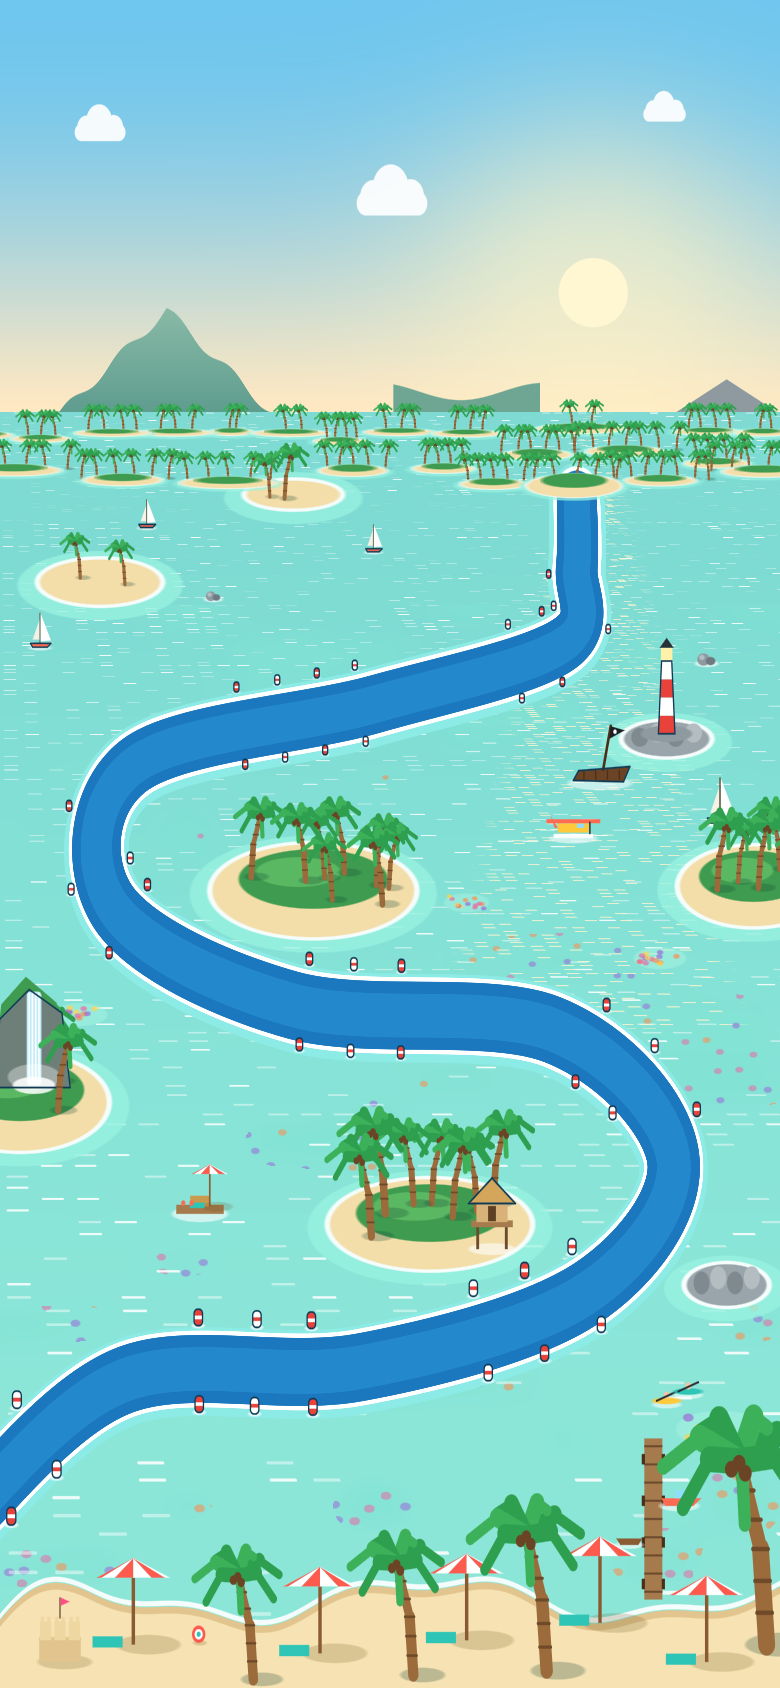
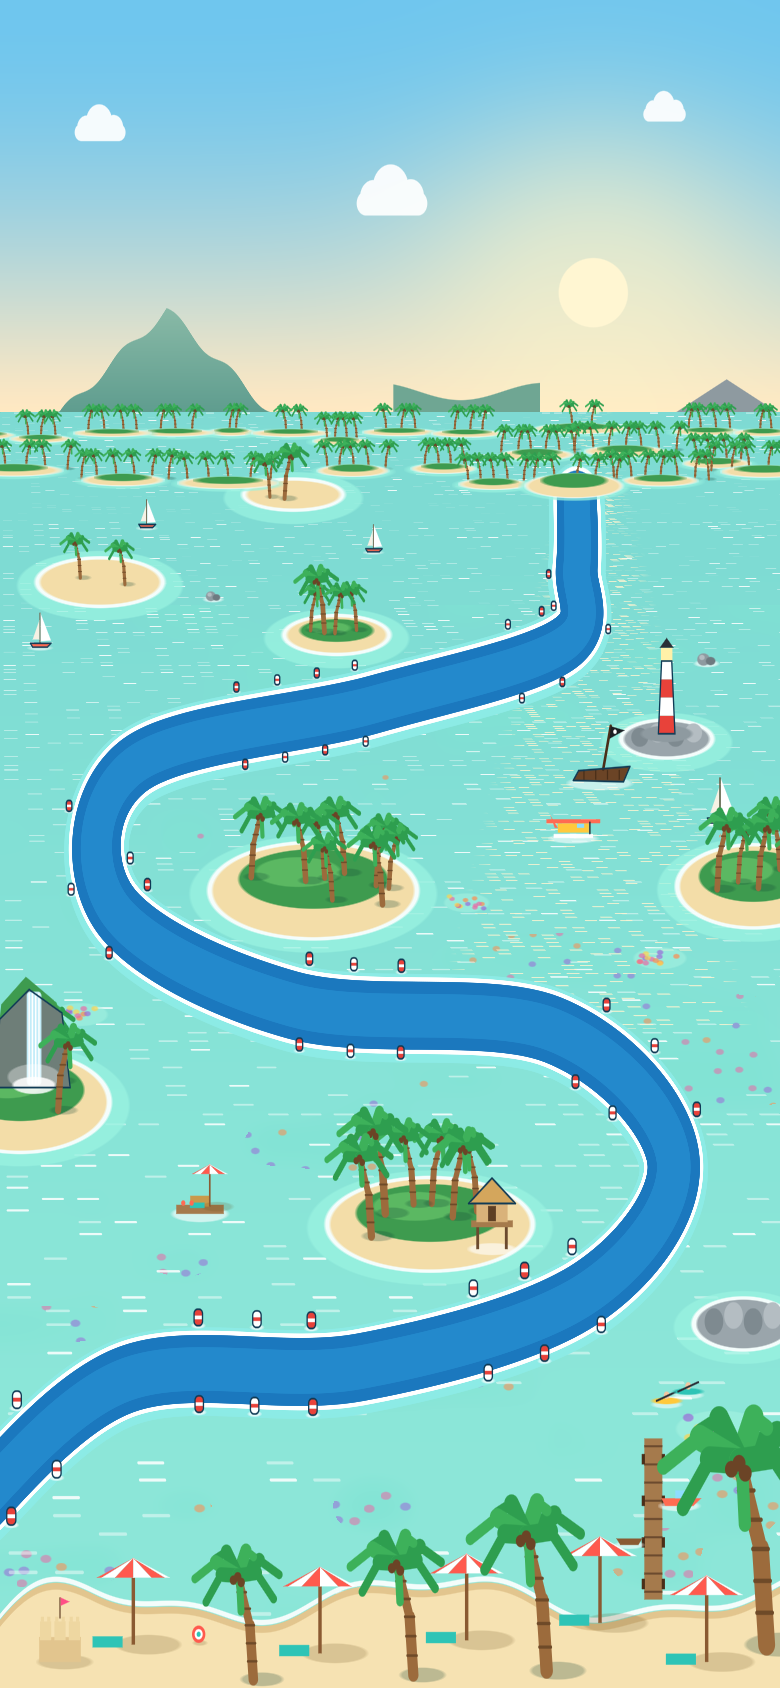
Lagoon races: no pale run-off strips in the corners (their uneven width and stretched light stripes looked off) - the channel meets the open water at its foam line and buoys. Water Cup map: the rock by race 3 moved off, the island below race 4 without its rightmost palm, a new palm island up and lef

Changed region(s): [[0.8615, 0.7393, 1.0, 0.8009], [0.3692, 0.3389, 0.5231, 0.4005], [0.6154, 0.6469, 0.6769, 0.7085]]

diff --git a/Assets/Scripts/Editor/MapArtGenerator.Water.cs b/Assets/Scripts/Editor/MapArtGenerator.Water.cs
@@ -1,5 +1,6 @@
 using System;
 using System.Collections.Generic;
+using System.Linq;
 using SomeGame.UI;
 using UnityEditor;
 using UnityEngine;
@@ -33,7 +34,8 @@ namespace SomeGame.EditorTools
             (new Vector2(150f, 1276f), new Vector2(90f, 26f), IslandLook.Sand),
             (new Vector2(1000f, 1095f), new Vector2(64f, 20f), IslandLook.Rock),
             (new Vector2(440f, 1377f), new Vector2(70f, 16f), IslandLook.Sand),
-            (new Vector2(1090f, 465f), new Vector2(80f, 32f), IslandLook.Rock),
+            (new Vector2(1115f, 420f), new Vector2(70f, 28f), IslandLook.Rock),
+            (new Vector2(505f, 1215f), new Vector2(80f, 22f), IslandLook.Jungle),
         };
 
         static readonly List<(Vector2 c, Vector2 r, IslandLook look)> SeaIslands = new();
@@ -285,6 +287,7 @@ namespace SomeGame.EditorTools
                     Put(lh, 40f, () => MapLighthouse(lh, SizeAt(lh.y) * 1.5f));
                 }
                 int palms = look switch { IslandLook.Jungle => Mathf.RoundToInt(r.x / 16f), IslandLook.Cliff => 3, IslandLook.Sand => 2, _ => 0 };
+                var placed = new List<(Vector2 p, float s, bool lean)>();
                 for (int k = 0; k < palms * 8 && palms > 0; k++)
                 {
                     var p = centre + new Vector2(Range(-r.x * 0.75f, r.x * 0.75f), Range(-r.y * 0.3f, r.y * 0.55f));
@@ -292,9 +295,13 @@ namespace SomeGame.EditorTools
                     float s = SizeAt(p.y) * Range(0.8f, 1.15f);
                     if (!Fits(p, 26f * s, 90f * s, 18f * s)) continue;
                     palms--;
-                    bool lean = rng.NextDouble() < 0.5;
-                    Put(p, 18f * s, () => MapPalm(p, s, lean));
+                    placed.Add((p, s, rng.NextDouble() < 0.5));
+                    occupied.Add((p, 18f * s));
                 }
+                // (the island below race 4 without its rightmost palm, next to its hut)
+                if (centre == new Vector2(645f, 535f) && placed.Count > 1)
+                    placed.Remove(placed.Find(q => q.p.x == placed.Max(o => o.p.x)));
+                foreach (var (p, s, lean) in placed) items.Add((p.y, () => MapPalm(p, s, lean)));
                 if (look == IslandLook.Jungle && r.x > 90f)
                 {
                     var hut = centre + new Vector2(r.x * 0.62f, -r.y * 0.55f);

diff --git a/Assets/Scripts/Track/TrackRenderer.cs b/Assets/Scripts/Track/TrackRenderer.cs
@@ -113,7 +113,7 @@ namespace SomeGame.Track
             if (edgeLines != null) Assign(edgeLines, BuildEdgeLines(path, keep));
             Assign(startLine, BuildStartLine(path, hw));
             if (gridLines != null) Assign(gridLines, BuildGrid(path, layout));
-            if (runoff != null) Assign(runoff, water || layout.abyss ? new Mesh { name = "Runoff", hideFlags = HideFlags.DontSave } : BuildRunoff(path));
+            if (runoff != null) Assign(runoff, water || layout.abyss || layout.biome == TrackLayout.Biome.Lagoon ? new Mesh { name = "Runoff", hideFlags = HideFlags.DontSave } : BuildRunoff(path));
             if (centerLine != null)
             {
                 float cycle = path.Length / Mathf.Max(1, Mathf.Round(path.Length / centerLineCycle));
